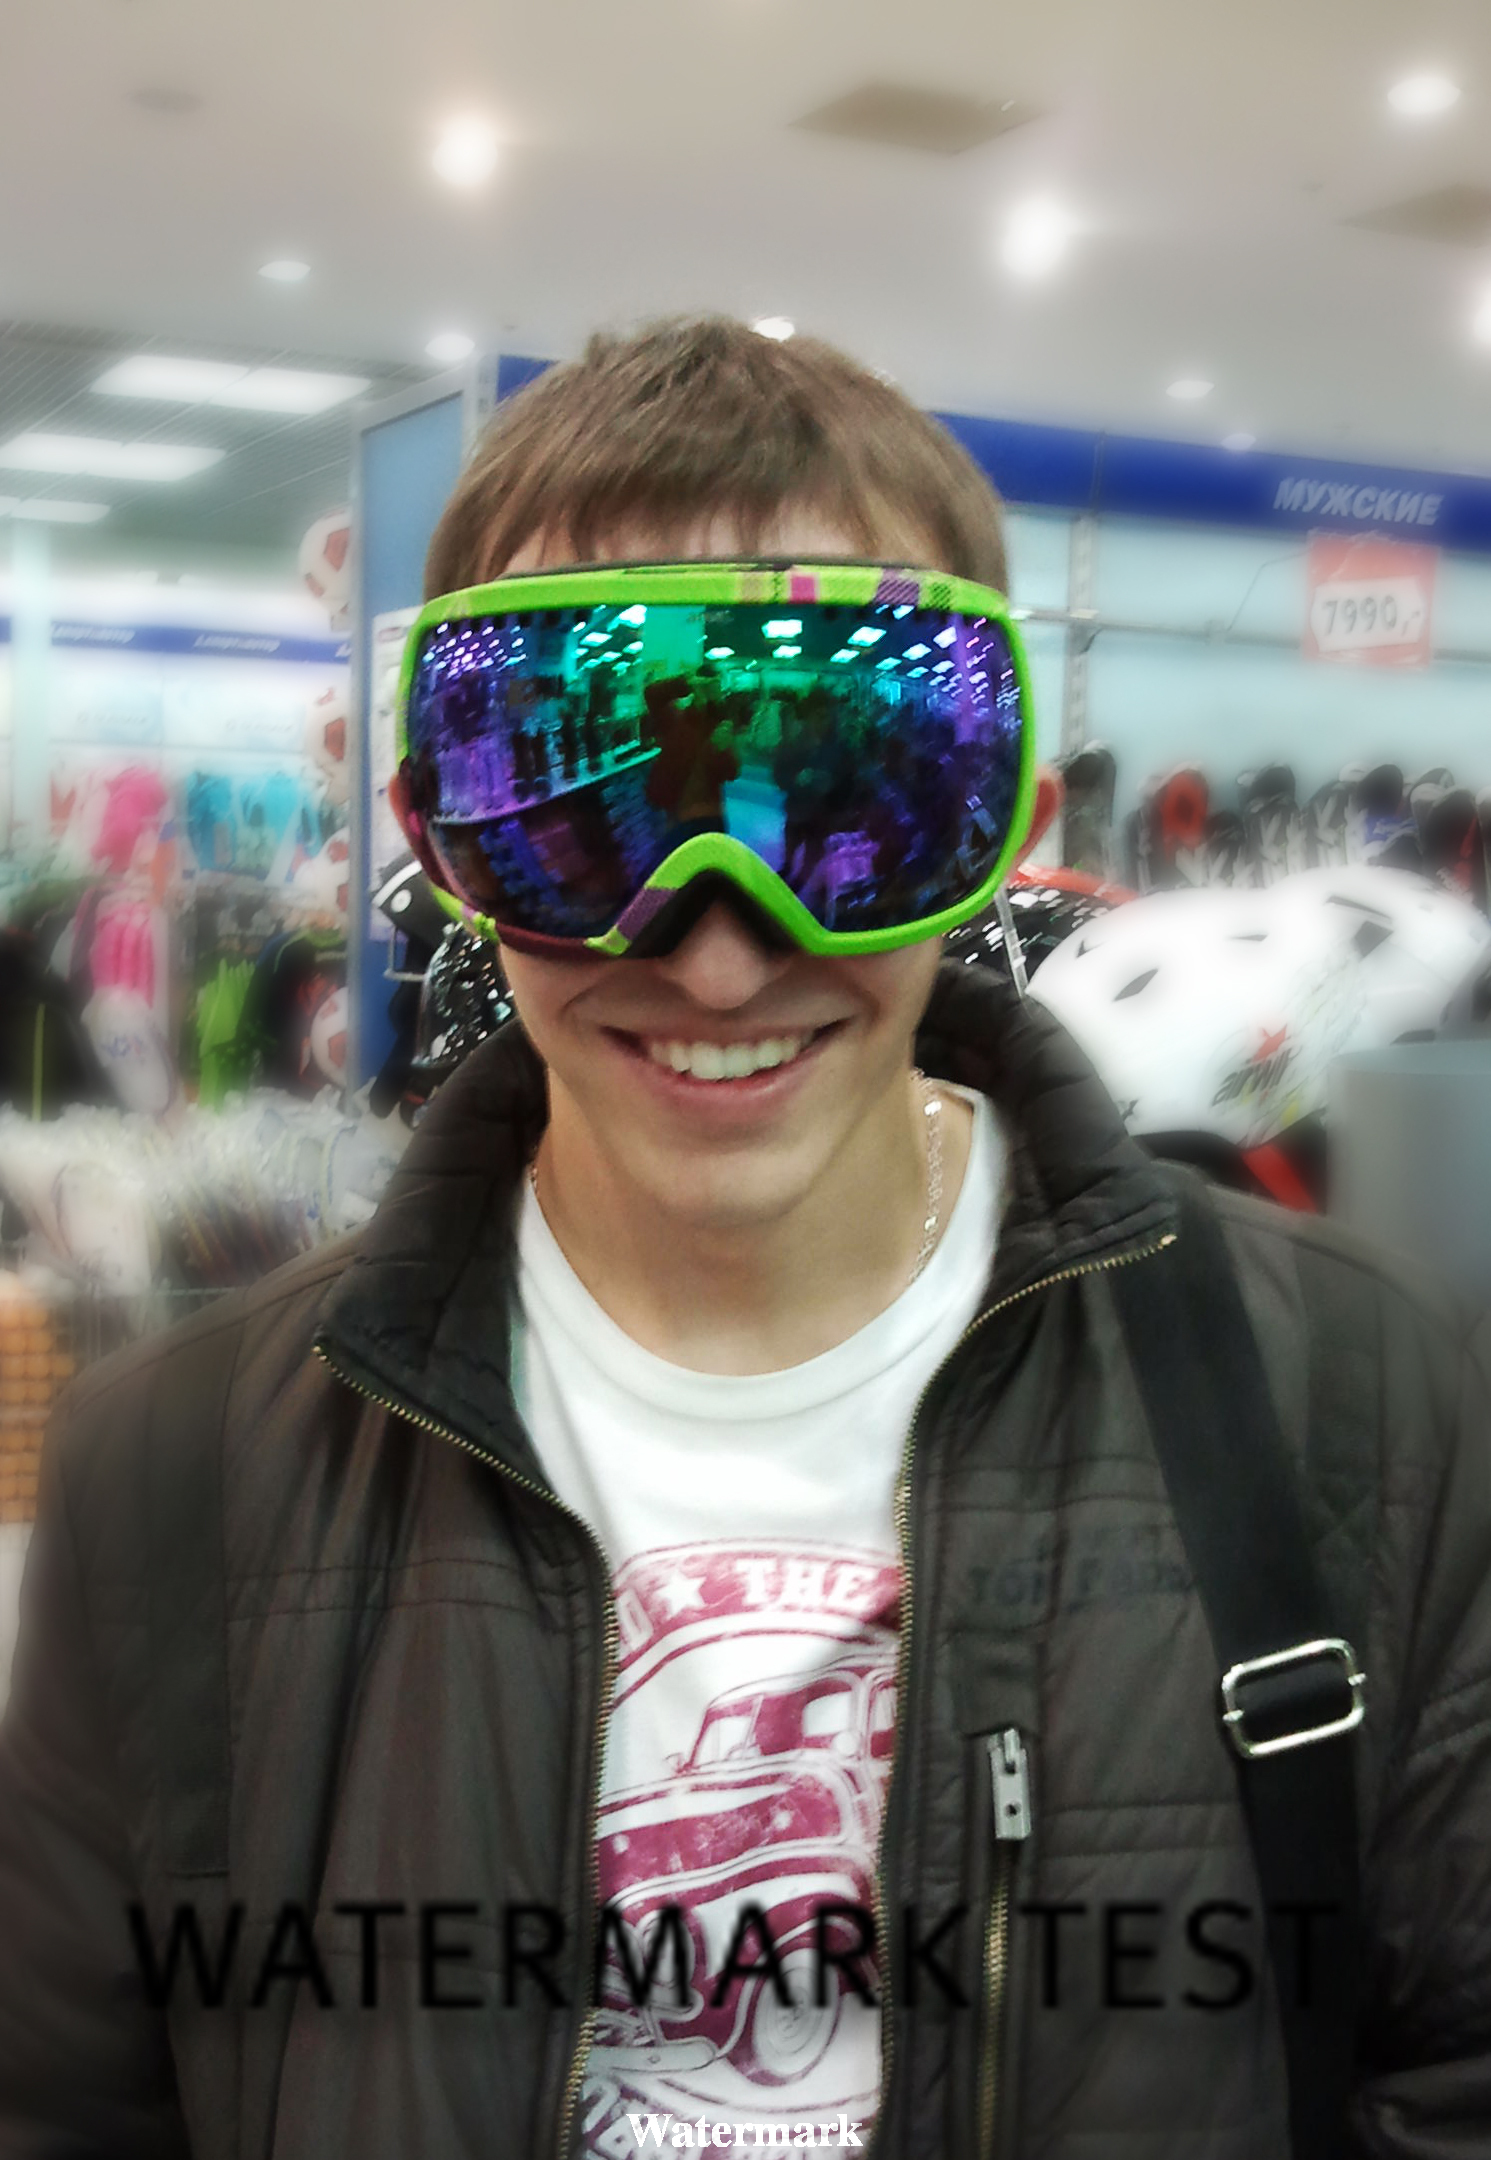
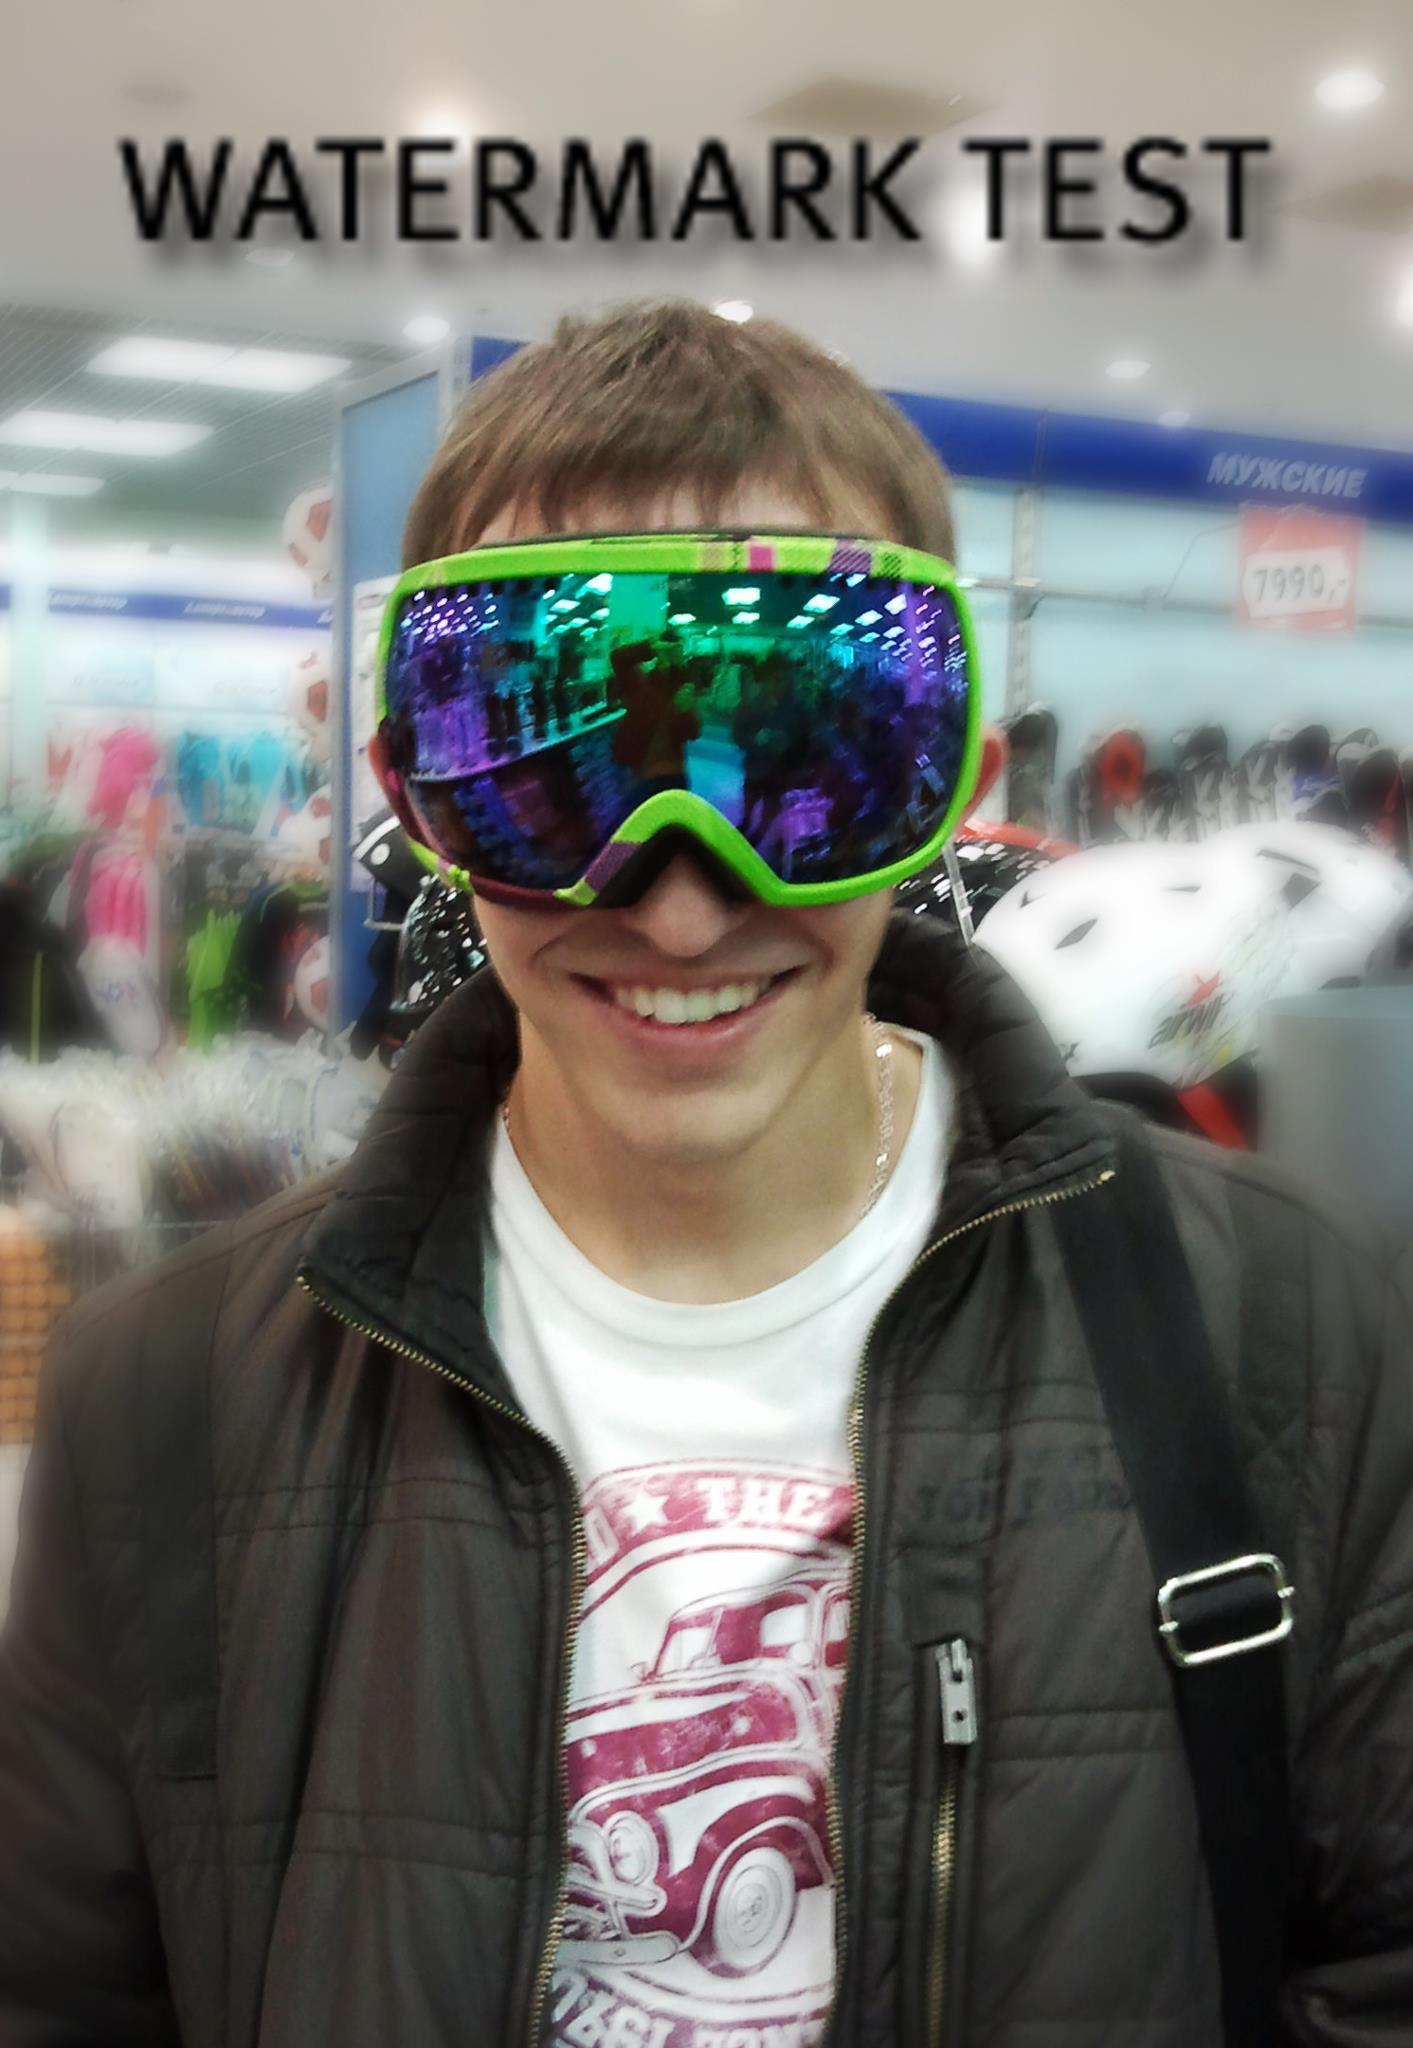
Исправлена модель photo.

Changed region(s): [[0.0623, 0.0625, 0.9342, 0.1562], [0.0934, 0.875, 0.6539, 1.0], [0.6851, 0.875, 0.8408, 0.9375]]

diff --git a/app/models/photo.rb b/app/models/photo.rb
@@ -1,6 +1,6 @@
 class Photo < ActiveRecord::Base
   # attr_accessible :title, :body
   attr_accessible  :photo1, :photo2
-  has_attached_file :photo1, :processors => [:watermark], :styles => { :thumb => '250x250>', :resized => { :geometry => '500x500>',  :watermark_path => '#{RAILS_ROOT}/public/images/watermark.png', :position => 'Center' }}
+  has_attached_file :photo1 #, :processors => [:watermark], :styles => { :thumb => '250x250>', :resized => { :geometry => '500x500>',  :watermark_path => '#{RAILS_ROOT}/public/images/watermark.png', :position => 'Center' }}
   has_attached_file :photo2 #, :styles => { :medium => "300x300>", :thumb => "100x100>" }
 end
